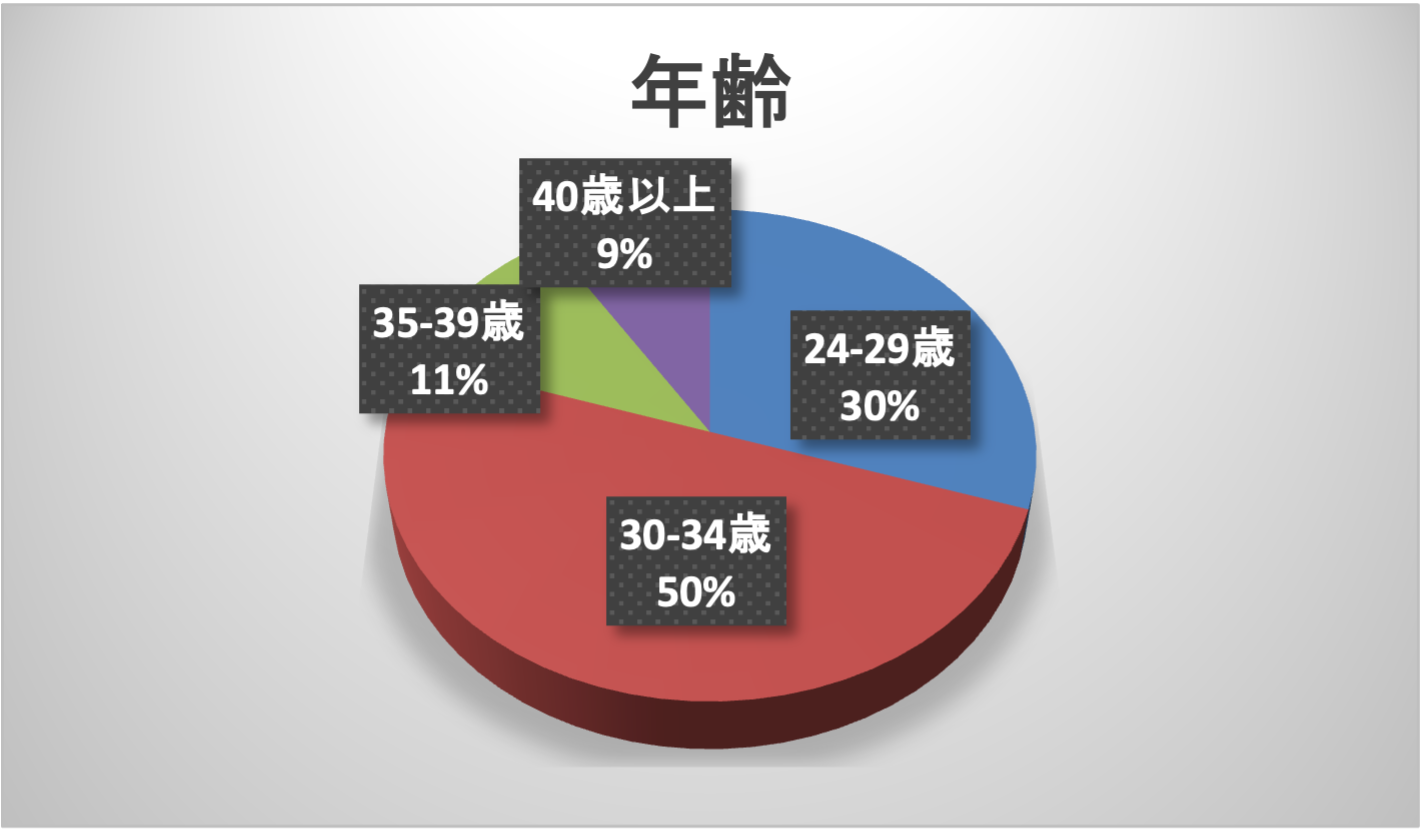
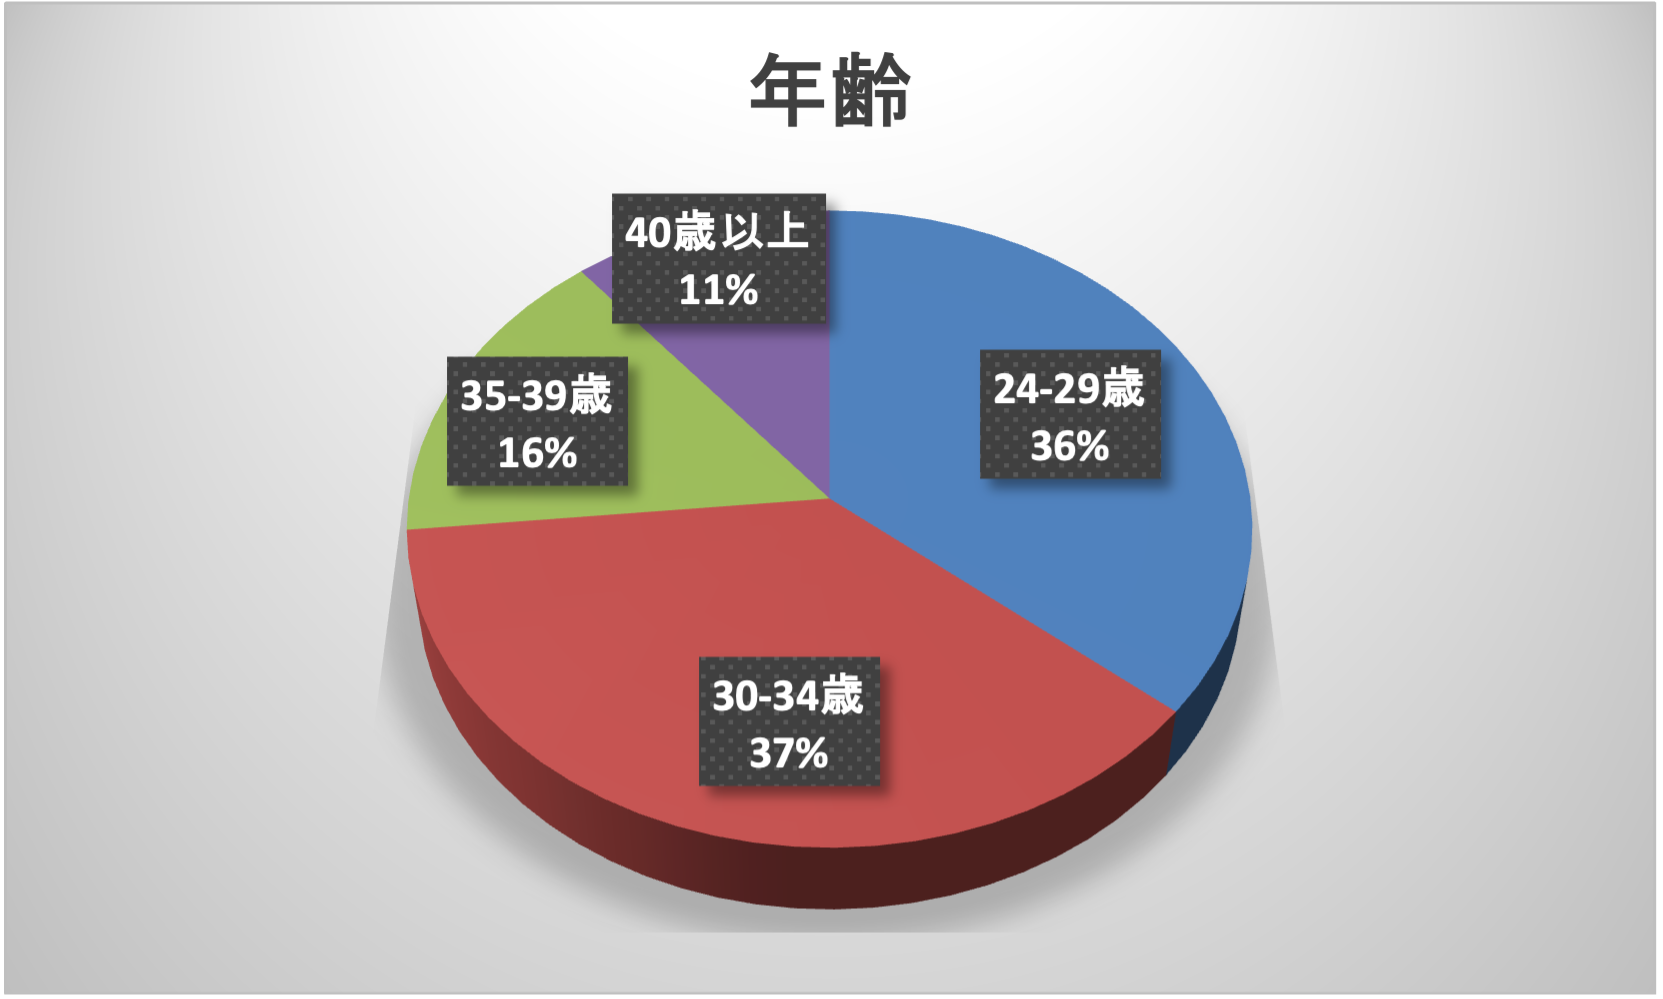
グラフデータ更新
グラフデータ更新

diff --git a/ja/admission-info.html b/ja/admission-info.html
@@ -145,7 +145,7 @@
         <h2>受講生の分布</h2>
         <p>
             年齢は，20歳代から30歳代が中心ですが, 40歳代の方もいらっしゃいます．
-            60-70％が事業部門の方です． 以下は第18期生のデータです．
+            60-70％が事業部門の方です． 以下は第19期生のデータです．
         </p>
 	<div style="display: flex; align-self: flex-start; align-items: flex-start;">
         <table style="border: 1px solid #000000; width: 270px; height: 150px; background-color: #f0ffff;" border="1"
@@ -159,7 +159,7 @@
             </tr>
             <tr>
                 <td style="border: 1px solid #000000;">事業</td>
-                <td style="border: 1px solid #000000;">63%</td>
+                <td style="border: 1px solid #000000;">69%</td>
             </tr>
             <tr>
                 <td style="border: 1px solid #000000;">技術</td>
@@ -167,7 +167,7 @@
             </tr>
             <tr>
                 <td style="border: 1px solid #000000;">研究</td>
-                <td style="border: 1px solid #000000;">17%</td>
+                <td style="border: 1px solid #000000;">11%</td>
             </tr>
             </tbody>
         </table>
@@ -190,19 +190,19 @@
             </tr>
             <tr>
                 <td style="border: 1px solid #000000;">24-29歳</td>
-                <td style="border: 1px solid #000000;">30%</td>
+                <td style="border: 1px solid #000000;">36%</td>
             </tr>
             <tr>
                 <td style="border: 1px solid #000000;">30-34歳</td>
-                <td style="border: 1px solid #000000;">50%</td>
+                <td style="border: 1px solid #000000;">37%</td>
             </tr>
             <tr>
                 <td style="border: 1px solid #000000;">35-39歳</td>
-                <td style="border: 1px solid #000000;">11%</td>
+                <td style="border: 1px solid #000000;">16%</td>
             </tr>
             <tr>
                 <td style="border: 1px solid #000000;">40歳以上</td>
-                <td style="border: 1px solid #000000;">9%</td>
+                <td style="border: 1px solid #000000;">11%</td>
             </tr>
             </tbody>
         </table>
@@ -225,15 +225,15 @@
             </tr>
             <tr>
                 <td style="border: 1px solid #000000;">文系</td>
-                <td style="border: 1px solid #000000;">9%</td>
+                <td style="border: 1px solid #000000;">17%</td>
             </tr>
             <tr>
                 <td style="border: 1px solid #000000;">理系(情報系以外)</td>
-                <td style="border: 1px solid #000000;">54%</td>
+                <td style="border: 1px solid #000000;">44%</td>
             </tr>
             <tr>
                 <td style="border: 1px solid #000000;">情報系</td>
-                <td style="border: 1px solid #000000;">37%</td>
+                <td style="border: 1px solid #000000;">39%</td>
             </tr>
             </tbody>
         </table>
